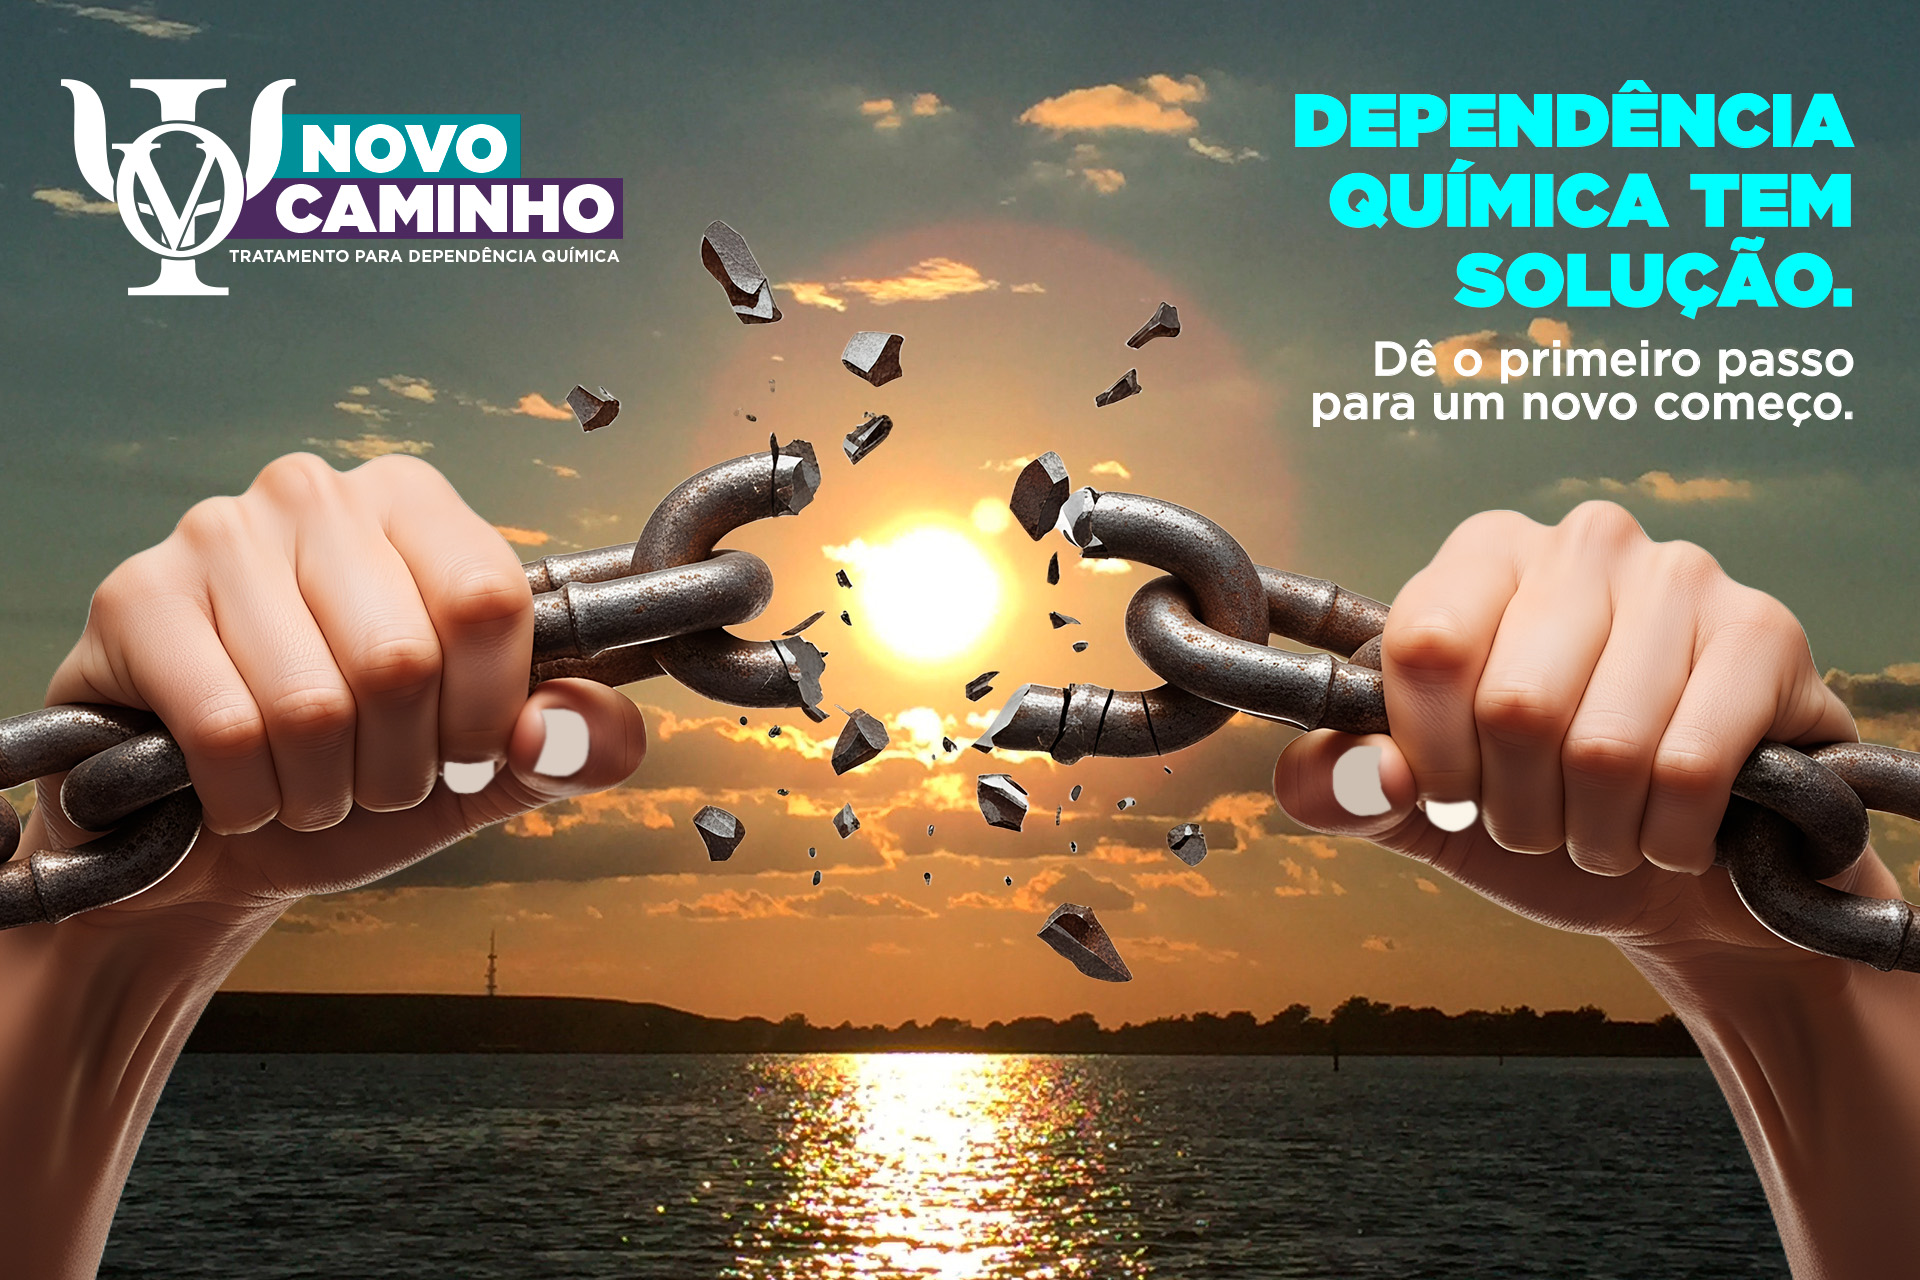
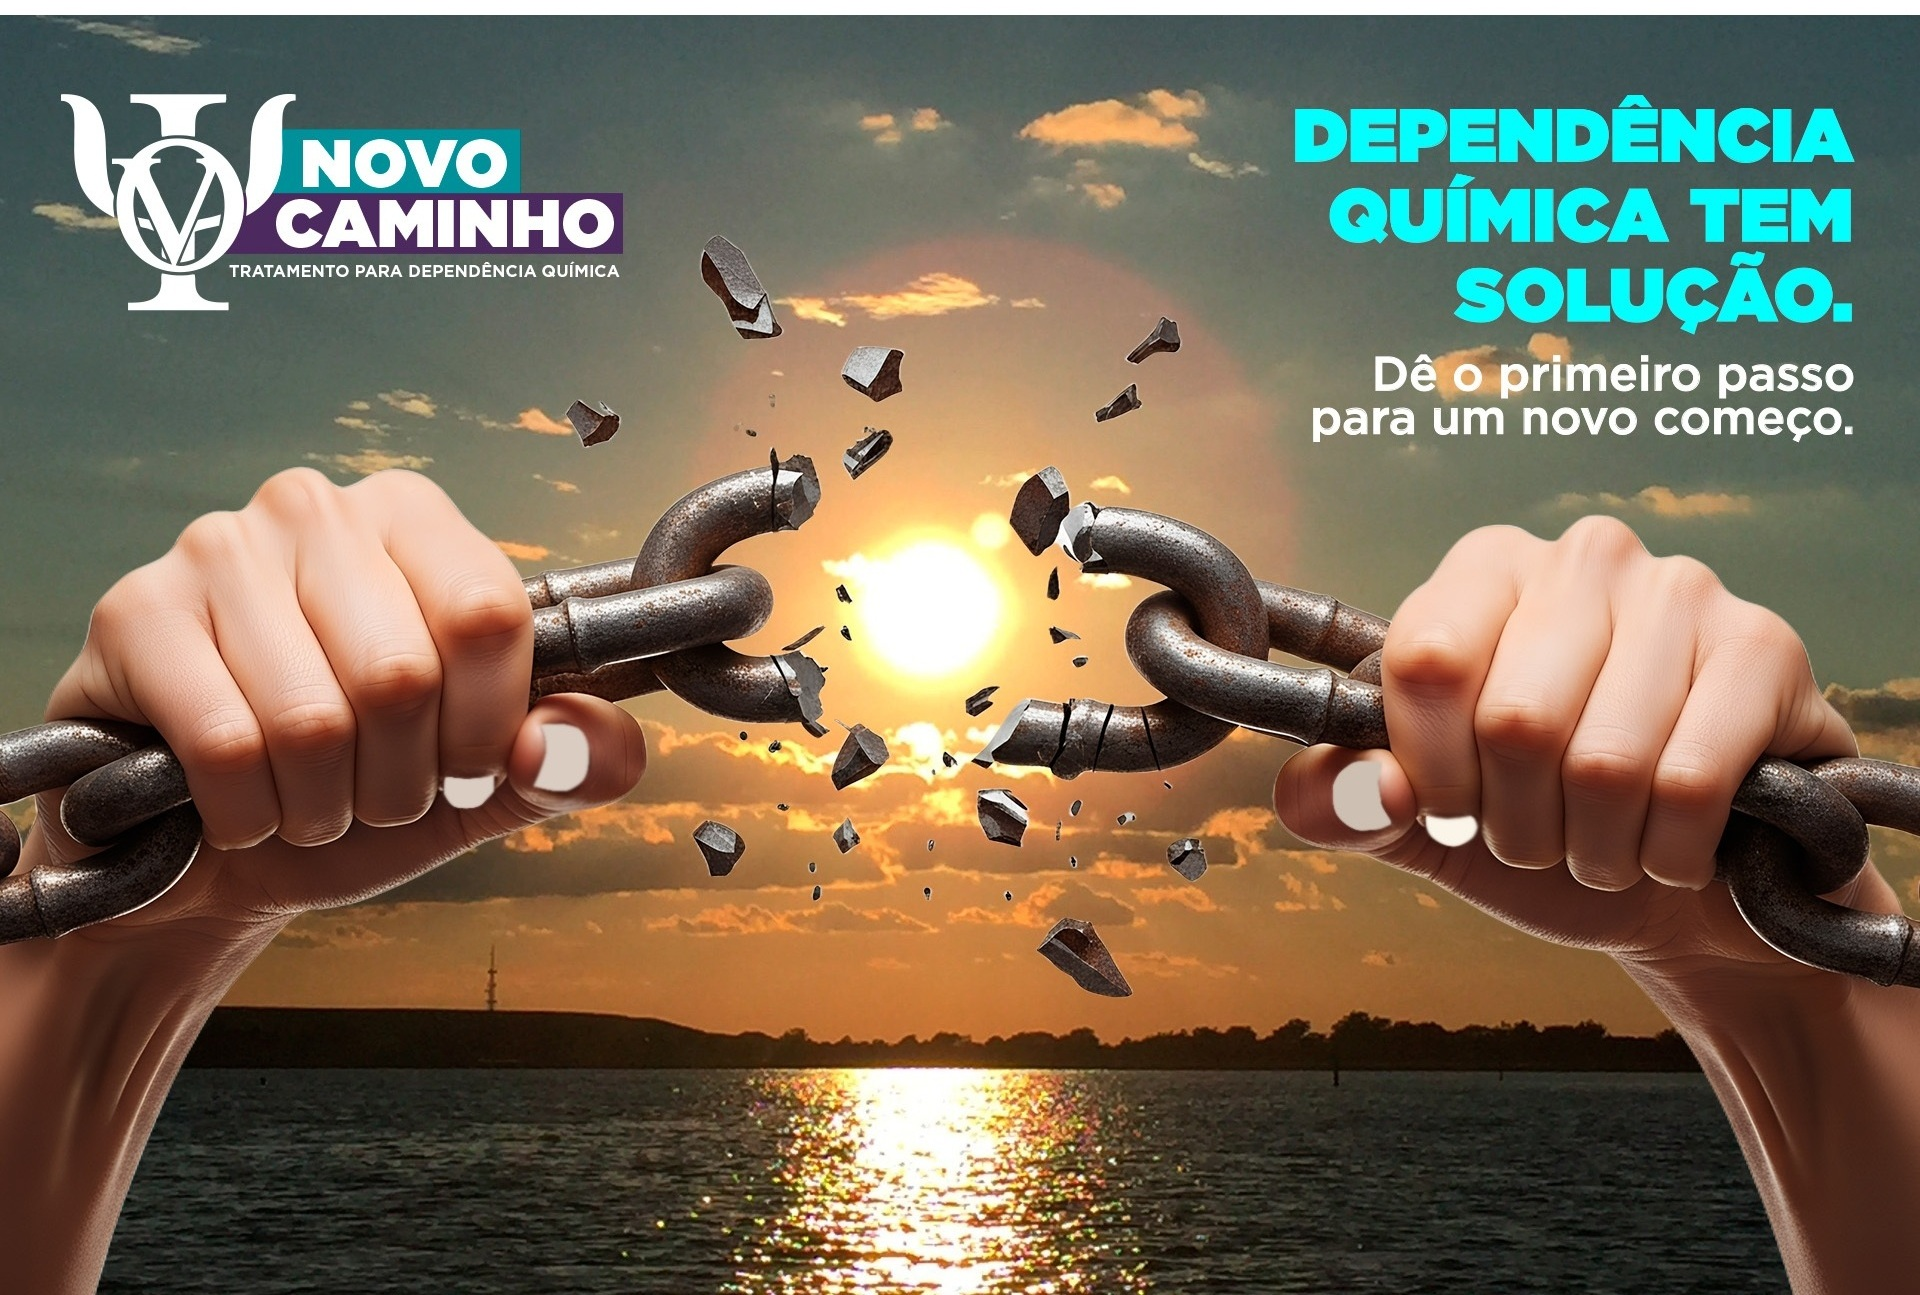
atualizar estilos do cabeçalho e seção de tratamentos; adicionar novos elementos e responsividade

diff --git a/public/css/treatment.css b/public/css/treatment.css
@@ -1,67 +1,199 @@
-
-
 /* Treatment Section */
 #treatment {
-  padding: 80px 0;
-  background: #f6f6f6;
+  padding: 100px 0;
+  background: linear-gradient(135deg, #f8f9fa 0%, #e9ecef 100%);
+  position: relative;
 }
+
+.section-title {
+  margin-bottom: 60px;
+}
+
+.section-title h2 {
+  font-size: 2.8rem;
+  font-weight: 700;
+  color: #3a3a3a;
+  position: relative;
+  padding-bottom: 15px;
+  margin-bottom: 15px;
+}
+
+.section-title h2::after {
+  content: '';
+  position: absolute;
+  bottom: 0;
+  left: 50%;
+  transform: translateX(-50%);
+  width: 80px;
+  height: 4px;
+  background: linear-gradient(90deg, #6c5ce7, #a29bfe);
+  border-radius: 2px;
+}
+
+.section-subtitle {
+  color: #6c757d;
+  font-size: 1.1rem;
+  max-width: 600px;
+  margin: 0 auto;
+}
+
 .treatment-card {
   background: #fff;
-  border-radius: 10px;
+  border-radius: 16px;
   overflow: hidden;
-  box-shadow: 0 5px 15px rgba(0, 0, 0, 0.1);
-  transition: all 0.3s ease;
+  box-shadow: 0 10px 30px rgba(0, 0, 0, 0.08);
+  transition: all 0.4s cubic-bezier(0.175, 0.885, 0.32, 1.275);
   margin-bottom: 30px;
   text-align: center;
-  height: 510px;
+  height: auto;
+  position: relative;
 }
 
 .treatment-card:hover {
-  box-shadow: 0 15px 30px rgba(0, 0, 0, 0.15);
-  opacity: 0.55;
+  transform: translateY(-10px);
+  box-shadow: 0 20px 40px rgba(0, 0, 0, 0.15);
+}
+
+.treatment-image-wrapper {
+  position: relative;
+  overflow: hidden;
 }
 
 .treatment-image img {
   width: 100%;
-  height: 250px;
+  height: 280px;
   object-fit: cover;
-  border: 5px solid #f6f6f6;
+  transition: all 0.5s ease;
+}
+
+.treatment-card:hover .treatment-image img {
+  transform: scale(1.05);
+}
+
+.treatment-overlay {
+  position: absolute;
+  top: 0;
+  left: 0;
+  width: 100%;
+  height: 100%;
+  background: rgba(108, 92, 231, 0.8);
+  display: flex;
+  align-items: center;
+  justify-content: center;
+  opacity: 0;
+  transition: all 0.3s ease;
+}
+
+.treatment-card:hover .treatment-overlay {
+  opacity: 1;
+}
+
+.treatment-button {
+  background: #fff;
+  color: #6c5ce7;
+  border: none;
+  padding: 12px 28px;
+  border-radius: 50px;
+  font-weight: 600;
+  cursor: pointer;
+  transition: all 0.3s ease;
   box-shadow: 0 5px 15px rgba(0, 0, 0, 0.1);
 }
 
+.treatment-button:hover {
+  background: #f8f9fa;
+  transform: translateY(-3px);
+  box-shadow: 0 8px 20px rgba(0, 0, 0, 0.15);
+}
+
 .treatment-content {
-  padding: 20px;
+  padding: 25px;
 }
 
 .treatment-content h3 {
-  font-size: 20px;
-  color: #333;
+  font-size: 1.5rem;
+  color: #3a3a3a;
   margin-bottom: 15px;
+  font-weight: 700;
 }
 
-.treatment-content p {
-  color: #666;
+.treatment-quote {
+  color: #6c757d;
   font-style: italic;
   margin-bottom: 15px;
   line-height: 1.6;
+  position: relative;
+  padding: 0 15px;
+}
+
+.treatment-quote::before,
+.treatment-quote::after {
+  content: '"';
+  font-size: 2rem;
+  color: #a29bfe;
+  opacity: 0.3;
 }
 
 .treatment-description {
-  color: #777;
-  font-size: 14px;
-  margin-bottom: 15px;
-  line-height: 1.5;
+  color: #555;
+  font-size: 0.95rem;
+  margin-bottom: 20px;
+  line-height: 1.6;
 }
 
 .treatment-price {
+  margin-top: 15px;
+  padding-top: 15px;
+  border-top: 1px dashed #e9ecef;
+}
+
+.price-tag {
+  display: inline-block;
+  background: linear-gradient(90deg, #6c5ce7, #a29bfe);
+  color: white;
+  padding: 8px 20px;
+  border-radius: 50px;
   font-weight: 600;
+  font-size: 1.1rem;
+}
+
+.loading-spinner {
+  text-align: center;
+  padding: 40px;
   color: #6c5ce7;
-  font-size: 18px;
+  font-size: 1.2rem;
 }
 
 /* Responsividade */
+@media (max-width: 992px) {
+  .treatment-content {
+    padding: 20px;
+  }
+}
+
 @media (max-width: 767px) {
+  #treatment {
+    padding: 60px 0;
+  }
+  
+  .section-title h2 {
+    font-size: 2.2rem;
+  }
+  
   .treatment-card {
-    margin-bottom: 20px;
+    margin-bottom: 25px;
+    max-width: 400px;
+    margin-left: auto;
+    margin-right: auto;
+  }
+}
+
+@media (max-width: 576px) {
+  .treatment-content {
+    padding: 15px;
+  }
+  
+  .treatment-content h3 {
+    font-size: 1.3rem;
   }
 }

diff --git a/src/components/treatment.jsx b/src/components/treatment.jsx
@@ -5,23 +5,29 @@ export const Treatment = (props) => {
     <div id="treatment">
       <div className="container">
         <div className="section-title text-center">
-          <h2>Tratamentos</h2>
+          <h2>Nossos Tratamentos</h2>
+          <p className="section-subtitle">Cuidados especializados para seu bem-estar</p>
         </div>
         <div className="row">
           {props.data
             ? props.data.map((d, i) => (
                 <div key={`${d.name}-${i}`} className="col-md-4 col-sm-6">
                   <div className="treatment-card">
-                    <div className="treatment-image">                      
-                    <Image
-                      title={d.name}
-                      largeImage={d.img}
-                      smallImage={d.img}
-                    />
+                    <div className="treatment-image-wrapper">
+                      <div className="treatment-image">
+                        <Image
+                          title={d.name}
+                          largeImage={d.img}
+                          smallImage={d.img}
+                        />
+                      </div>
+                      <div className="treatment-overlay">
+                        <button className="treatment-button">Saiba mais</button>
+                      </div>
                     </div>
                     <div className="treatment-content">
                       <h3>{d.name}</h3>
-                      <p>"{d.text}"</p>
+                      <p className="treatment-quote">"{d.text}"</p>
                       {d.description && (
                         <div className="treatment-description">
                           {d.description}
@@ -29,14 +35,14 @@ export const Treatment = (props) => {
                       )}
                       {d.price && (
                         <div className="treatment-price">
-                          {d.price}
+                          <span className="price-tag">{d.price}</span>
                         </div>
                       )}
                     </div>
                   </div>
                 </div>
               ))
-            : "Carregando..."}
+            : <div className="loading-spinner">Carregando...</div>}
         </div>
       </div>
     </div>

diff --git a/public/css/header.css b/public/css/header.css
@@ -2,14 +2,17 @@
 .intro {
   display: flex;
   justify-content: center;
-  align-items: center;
+  align-items: flex-start;
   width: 100%;
-  min-height: 135vh; /* ocupa altura da tela */
-  background: url(../img/intro-bg.jpg) center center no-repeat;
+  min-height: 135vh; 
+  background: url(../img/intro-bg.jpg) center top no-repeat;
   background-color: #e5e5e5;
-  background-size: contain; /* mostra a imagem inteira */
+  background-size: cover;
 }
 
+header {
+  padding-top: 60px; 
+}
 
 .intro .overlay {
   background: rgba(0, 0, 0, 0.2);
@@ -60,4 +63,17 @@ header .intro-text {
   display: flex;
   align-items: center;   /* força centralização vertical */
 
+}
+
+@media (max-width: 640px) {
+  .intro {
+  display: flex;
+  justify-content: center;
+  align-items: flex-start; /* garante que o conteúdo fique no topo */
+  width: 100%;
+  min-height: 135vh; /* ocupa altura da tela */
+  background: url(../img/intro-bg-responsivo-bg.jpg) center top no-repeat; /* fixa o topo da imagem */
+  background-color: #e5e5e5;
+  background-size: cover; /* cobre todo o container, cortando principalmente embaixo */
+}
 }

diff --git a/src/components/floating-wpp-button.jsx b/src/components/floating-wpp-button.jsx
@@ -4,7 +4,7 @@ import { FaWhatsapp } from "react-icons/fa";
 export const WhatsAppButton = () => {
   return (
     <a
-      href="https://wa.me/5511999999999?text=Ol%C3%A1!%20Gostaria%20de%20receber%20mais%20informa%C3%A7%C3%B5es%20sobre%20seus%20servi%C3%A7os."
+      href="https://wa.me/5592984092632?text=Ol%C3%A1!%20Gostaria%20de%20receber%20mais%20informa%C3%A7%C3%B5es%20sobre%20seus%20servi%C3%A7os."
       target="_blank"
       rel="noopener noreferrer"
       className="whatsapp-button"
